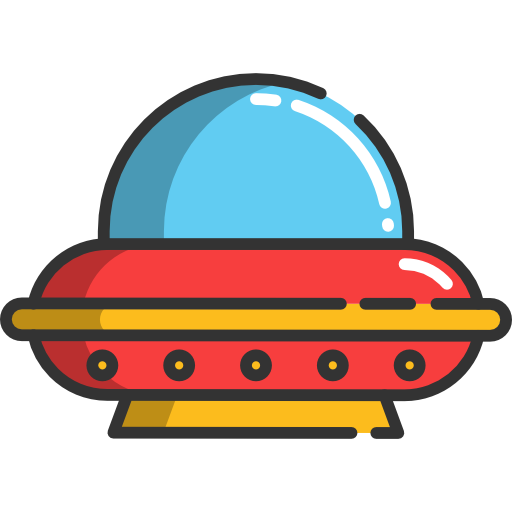
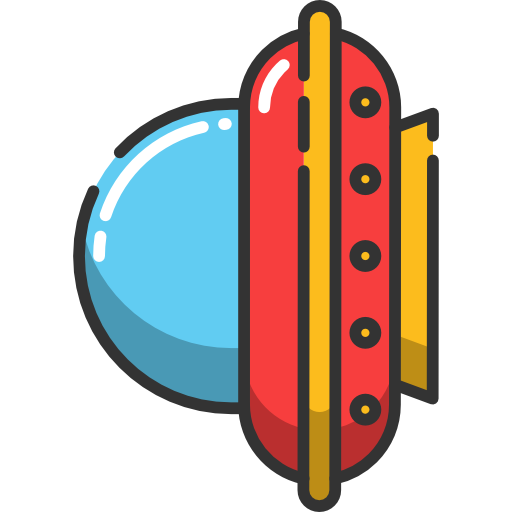
Complete ufo

diff --git a/Asteroids/Assets/Asteroids/Domain/Scripts/Systems/Ufo/UfoShootSystem.cs b/Asteroids/Assets/Asteroids/Domain/Scripts/Systems/Ufo/UfoShootSystem.cs
@@ -1,0 +1,35 @@
+using Asteroids.Domain.Components.Common;
+using Asteroids.Domain.Components.Extensions;
+using Asteroids.Domain.Components.SpaceShip;
+using EcsCore;
+
+namespace Asteroids.Domain.Systems.Ufo
+{
+    public class UfoShootSystem : IInitSystem, IUpdateSystem
+    {
+        private EcsWorld _world;
+        private Filter _filter;
+
+        public void Init(EcsWorld world)
+        {
+            _world = world;
+            _filter = new Filter(world)
+                .Include<Components.Ufo.Ufo>()
+                .Include<Position>()
+                .Include<Rotation>()
+                .Exclude<ShootCooldown>();
+        }
+
+        public void Update()
+        {
+            _filter.ForEach(entity =>
+            {
+                entity.CreateSpawnPosition(_world, false, out var shootEntity);
+                shootEntity.Add<CreateBulletIntent>();
+
+                entity.Add<ShootCooldown>();
+                entity.Get<ShootCooldown>().Time = Settings.UFO_SHOOT_COOLDOWN;
+            });
+        }
+    }
+}

diff --git a/Asteroids/Assets/Asteroids/Domain/Scripts/Components/Extensions/EntityExtensions.cs b/Asteroids/Assets/Asteroids/Domain/Scripts/Components/Extensions/EntityExtensions.cs
@@ -7,7 +7,7 @@ namespace Asteroids.Domain.Components.Extensions
 {
     public static class EntityExtensions
     {
-        public static void CreateSpawnPosition(this Entity entity, EcsWorld world, out Entity newEntity)
+        public static void CreateSpawnPosition(this Entity entity, EcsWorld world, bool fromPlayer, out Entity newEntity)
         {
             Position position = entity.Get<Position>();
             Rotation rotation = entity.Get<Rotation>();
@@ -17,9 +17,9 @@ namespace Asteroids.Domain.Components.Extensions
             newEntity.Add<SpawnPosition>();
 
             SpawnPosition spawnPosition = newEntity.Get<SpawnPosition>();
-            spawnPosition.Point = position.Value + direction * 2f;
+            spawnPosition.Point = position.Value + direction * Settings.DISTANCE_TO_SHOT;
             spawnPosition.DirectionAngle = rotation.Angle;
-            spawnPosition.FromPlayer = true;
+            spawnPosition.FromPlayer = fromPlayer;
         }
     }
 }

diff --git a/Asteroids/Assets/Asteroids/Presentation/Scene/Scripts/Systems/CreateViewSystem.cs b/Asteroids/Assets/Asteroids/Presentation/Scene/Scripts/Systems/CreateViewSystem.cs
@@ -35,14 +35,10 @@ namespace Asteroids.Presentation.Scene.Systems
 
         private static void SetupView(Entity entity, GameObject view)
         {
-            Vector2 position = entity.Get<Position>().Value;
-            float angle = entity.Get<Rotation>().Angle;
             string tag = entity.Get<ViewTag>().Tag.ToString();
             Sprite sprite = Resources.Load<Sprite>(tag);
 
             view.name = tag;
-            view.transform.position = position;
-            view.transform.rotation = Quaternion.AngleAxis(angle, Vector3.forward);
             view.GetComponentInChildren<SpriteRenderer>().sprite = sprite;
         }
 

diff --git a/Asteroids/Assets/Asteroids/Domain/Scripts/Systems/Ufo/UfoToShipDirectionAssignSystem.cs b/Asteroids/Assets/Asteroids/Domain/Scripts/Systems/Ufo/UfoToShipDirectionAssignSystem.cs
@@ -31,7 +31,7 @@ namespace Asteroids.Domain.Systems.Ufo
                 _ship.ForEach(ship =>
                 {
                     Vector2 shipPosition = ship.Get<Position>().Value;
-                    rotation.Angle = Vector2.Angle(Vector2.right, (shipPosition - position).normalized);
+                    rotation.Angle = Vector2.SignedAngle(Vector2.right, (shipPosition - position).normalized);
                 });
             });
         }

diff --git a/Asteroids/Assets/Asteroids/Domain/Scripts/Settings.cs b/Asteroids/Assets/Asteroids/Domain/Scripts/Settings.cs
@@ -1,9 +1,13 @@
-namespace Asteroids.Domain
+using UnityEngine;
+
+namespace Asteroids.Domain
 {
     public static class Settings
     {
         public const int SMALLER_ASTEROIDS_COUNT = 3;
         public const float ASTEROIDS_SPAWN_TIME = 2f;
         public const float UFO_SPAWN_TIME = 5f;
+        public const float UFO_SHOOT_COOLDOWN = 2f;
+        public const float DISTANCE_TO_SHOT = 2f;
     }
 }

diff --git a/Asteroids/Assets/Asteroids/Bootstrap/Scripts/Bootstrappers/ModelBootstrapper.cs b/Asteroids/Assets/Asteroids/Bootstrap/Scripts/Bootstrappers/ModelBootstrapper.cs
@@ -41,7 +41,8 @@ namespace Asteroids.Bootstrap.Bootstrappers
 
                 .Add(new CreateUfoIntentSystem(time, mapBorders, randomService))
                 .Add(new CreateUfoSystem())
-                .Add(new UfoToShipDirectionAssignSystem());
+                .Add(new UfoToShipDirectionAssignSystem())
+                .Add(new UfoShootSystem());
         }
     }
 }

diff --git a/Asteroids/Assets/Asteroids/Domain/Scripts/Systems/ShootIntentSystem.cs b/Asteroids/Assets/Asteroids/Domain/Scripts/Systems/ShootIntentSystem.cs
@@ -39,7 +39,7 @@ namespace Asteroids.Domain.Systems
 
         private void CreateIntent(Entity entity)
         {
-            entity.CreateSpawnPosition(_world, out var intentEntity);
+            entity.CreateSpawnPosition(_world, true, out var intentEntity);
             intentEntity.Add<CreateBulletIntent>();
         }
 

diff --git a/Asteroids/Assets/Asteroids/Domain/Scripts/Systems/LaserIntentSystem.cs b/Asteroids/Assets/Asteroids/Domain/Scripts/Systems/LaserIntentSystem.cs
@@ -45,7 +45,7 @@ namespace Asteroids.Domain.Systems
 
         private void CreateIntent(Entity entity)
         {
-            entity.CreateSpawnPosition(_world, out var intentEntity);
+            entity.CreateSpawnPosition(_world, true, out var intentEntity);
             intentEntity.Add<CreateLaserIntent>();
         }
 

diff --git a/Asteroids/Assets/Asteroids/Domain/Scripts/Systems/CreateLaserSystem.cs b/Asteroids/Assets/Asteroids/Domain/Scripts/Systems/CreateLaserSystem.cs
@@ -43,7 +43,7 @@ namespace Asteroids.Domain.Systems
 
             entity.Get<Rotation>().Angle = spawnPosition.DirectionAngle;
             entity.Get<RayCollider>().Lenght = 30f;
-            entity.Get<DestroyTimer>().Left = 1f;
+            entity.Get<DestroyTimer>().Left = .3f;
         }
     }
 }
